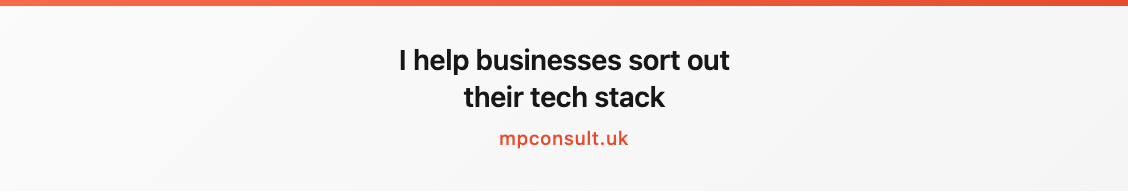
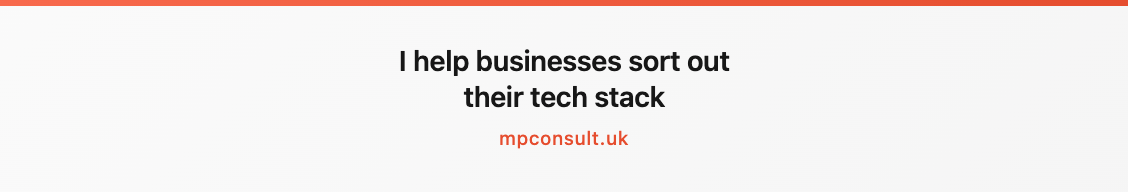
Update LinkedIn templates and refine content for AI and automation focus

Changed region(s): [[0.3723, 0.2812, 0.6516, 0.375]]

diff --git a/public/linkedin-personal-cover-template.html b/public/linkedin-personal-cover-template.html
@@ -1,0 +1,125 @@
+<!DOCTYPE html>
+<html>
+<head>
+  <meta charset="UTF-8">
+  <title>LinkedIn Personal Profile Cover Template</title>
+  <style>
+    * {
+      margin: 0;
+      padding: 0;
+      box-sizing: border-box;
+    }
+
+    body {
+      font-family: system-ui, -apple-system, BlinkMacSystemFont, 'Segoe UI', sans-serif;
+    }
+
+    /* Halved for Retina - captures at 2x to produce 1584x396.
+       This is the LinkedIn personal profile background banner (1584x396).
+       Both dimensions are even, so the 2x capture and flex centring land on
+       whole device pixels and stay crisp. */
+    .cover {
+      width: 792px;
+      height: 198px;
+      background: linear-gradient(135deg, #fafafa 0%, #f5f5f5 100%);
+      position: relative;
+      overflow: hidden;
+      display: flex;
+      align-items: center;
+    }
+
+    /* Subtle accent stripe along the top */
+    .cover::before {
+      content: '';
+      position: absolute;
+      top: 0;
+      left: 0;
+      right: 0;
+      height: 4px;
+      background: linear-gradient(90deg, #f86a4d, #e54d2e);
+    }
+
+    /* SAFE ZONE
+       The profile photo overlaps the LOWER-LEFT of the banner - a large
+       circle anchored near the bottom-left edge. LinkedIn also crops the
+       banner inwards on mobile. So: keep the content vertically centred and
+       pushed in from the left so it clears the photo and survives the crop. */
+    .content {
+      display: flex;
+      align-items: center;
+      gap: 20px;
+      padding-left: 150px;
+    }
+
+    /* MP monogram - the brand mark, echoing the rounded-square logo style */
+    .mark {
+      width: 64px;
+      height: 64px;
+      flex-shrink: 0;
+      border-radius: 14px;
+      background: linear-gradient(135deg, #f86a4d, #e54d2e);
+      display: flex;
+      align-items: center;
+      justify-content: center;
+      font-size: 28px;
+      font-weight: 700;
+      letter-spacing: -0.03em;
+      color: #ffffff;
+      box-shadow: 0 4px 14px rgba(229, 77, 46, 0.28);
+    }
+
+    .text {
+      line-height: 1.25;
+    }
+
+    h1 {
+      font-size: 30px;
+      font-weight: 700;
+      color: #171717;
+      letter-spacing: -0.025em;
+      margin-bottom: 5px;
+    }
+
+    h1 .light {
+      font-weight: 400;
+      color: #525252;
+    }
+
+    .tagline {
+      font-size: 14px;
+      font-weight: 500;
+      color: #525252;
+      margin-bottom: 7px;
+    }
+
+    .domain {
+      font-size: 11px;
+      font-weight: 600;
+      letter-spacing: 0.02em;
+      color: #e54d2e;
+    }
+
+    /* Dark version - uncomment to use */
+    /*
+    .cover {
+      background: linear-gradient(135deg, #0a0a0a 0%, #171717 100%);
+    }
+    h1 { color: #fafafa; }
+    h1 .light { color: #a3a3a3; }
+    .tagline { color: #a3a3a3; }
+    */
+  </style>
+</head>
+<body>
+  <div class="cover">
+    <div class="content">
+      <div class="mark">MP</div>
+      <div class="text">
+        <h1>MP Consult</h1>
+        <p class="tagline">Tech that quietly works for small businesses</p>
+        <p class="domain">mpconsult.uk</p>
+      </div>
+    </div>
+  </div>
+</body>
+</html>

diff --git a/public/og-image-template.html b/public/og-image-template.html
@@ -97,8 +97,8 @@
     <div class="content">
       <img src="avatar.png" alt="MP" class="avatar">
       <div class="text">
-        <h1>I help small businesses sort out their tech and marketing.</h1>
-        <p class="tagline">Websites, analytics, email, automation — so it actually works.</p>
+        <h1>Get up and running with AI and automation.</h1>
+        <p class="tagline">Built with you, handed over, yours to run.</p>
       </div>
     </div>
     <div class="domain">mpconsult.uk</div>

diff --git a/public/linkedin-profile-banner-template.html b/public/linkedin-profile-banner-template.html
@@ -84,7 +84,7 @@
   <div class="banner">
     <div class="content">
       <h1>Get up and running with AI and automation.</h1>
-      <p class="tagline">Built with you, handed over, yours to run. No lock-in.</p>
+      <p class="tagline">Built with you, handed over, yours to run.</p>
       <p class="domain">mpconsult.uk</p>
     </div>
   </div>
